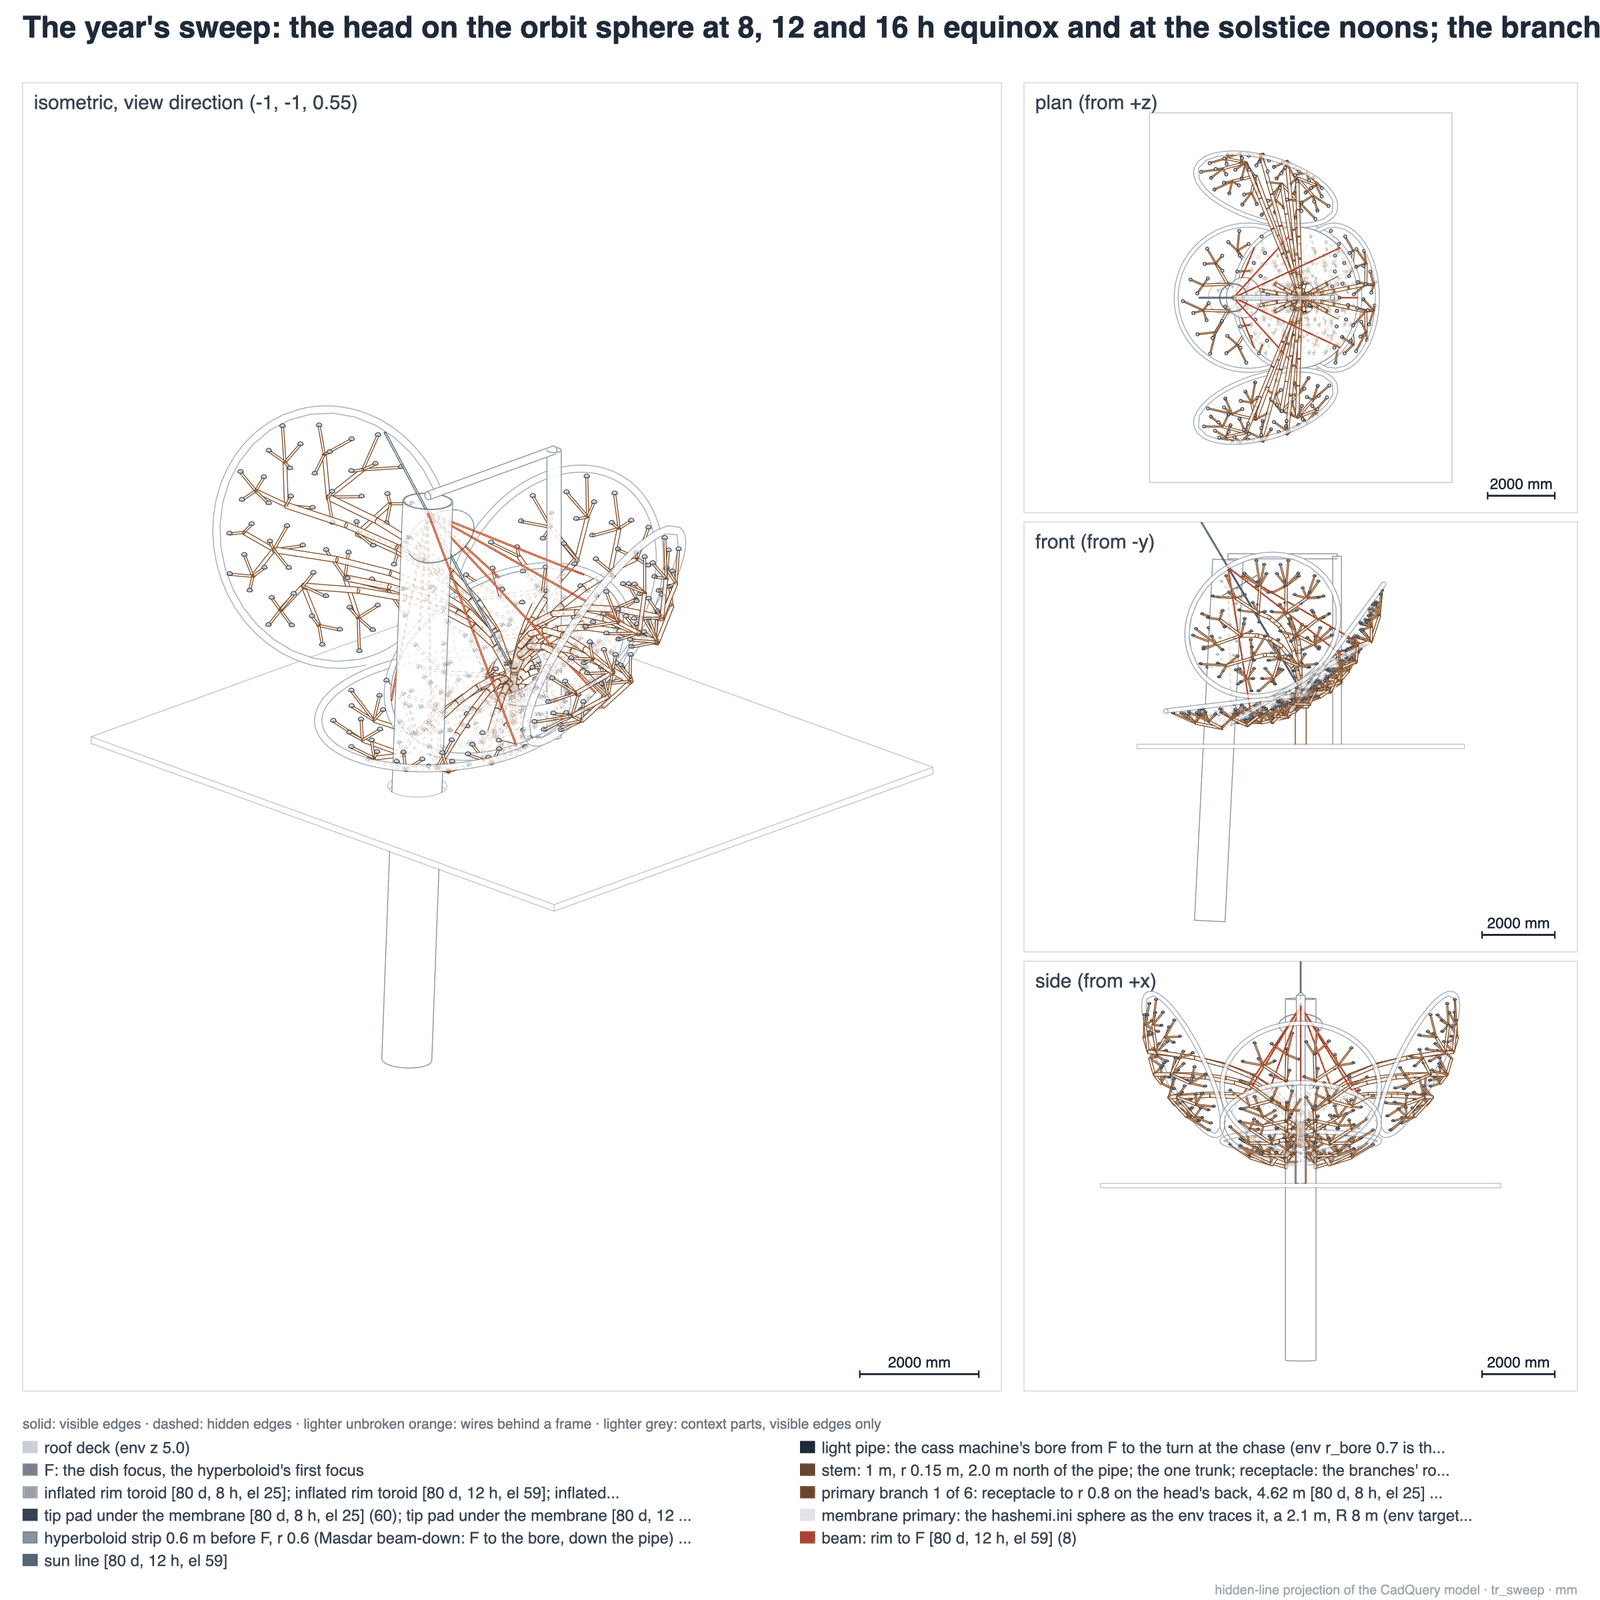
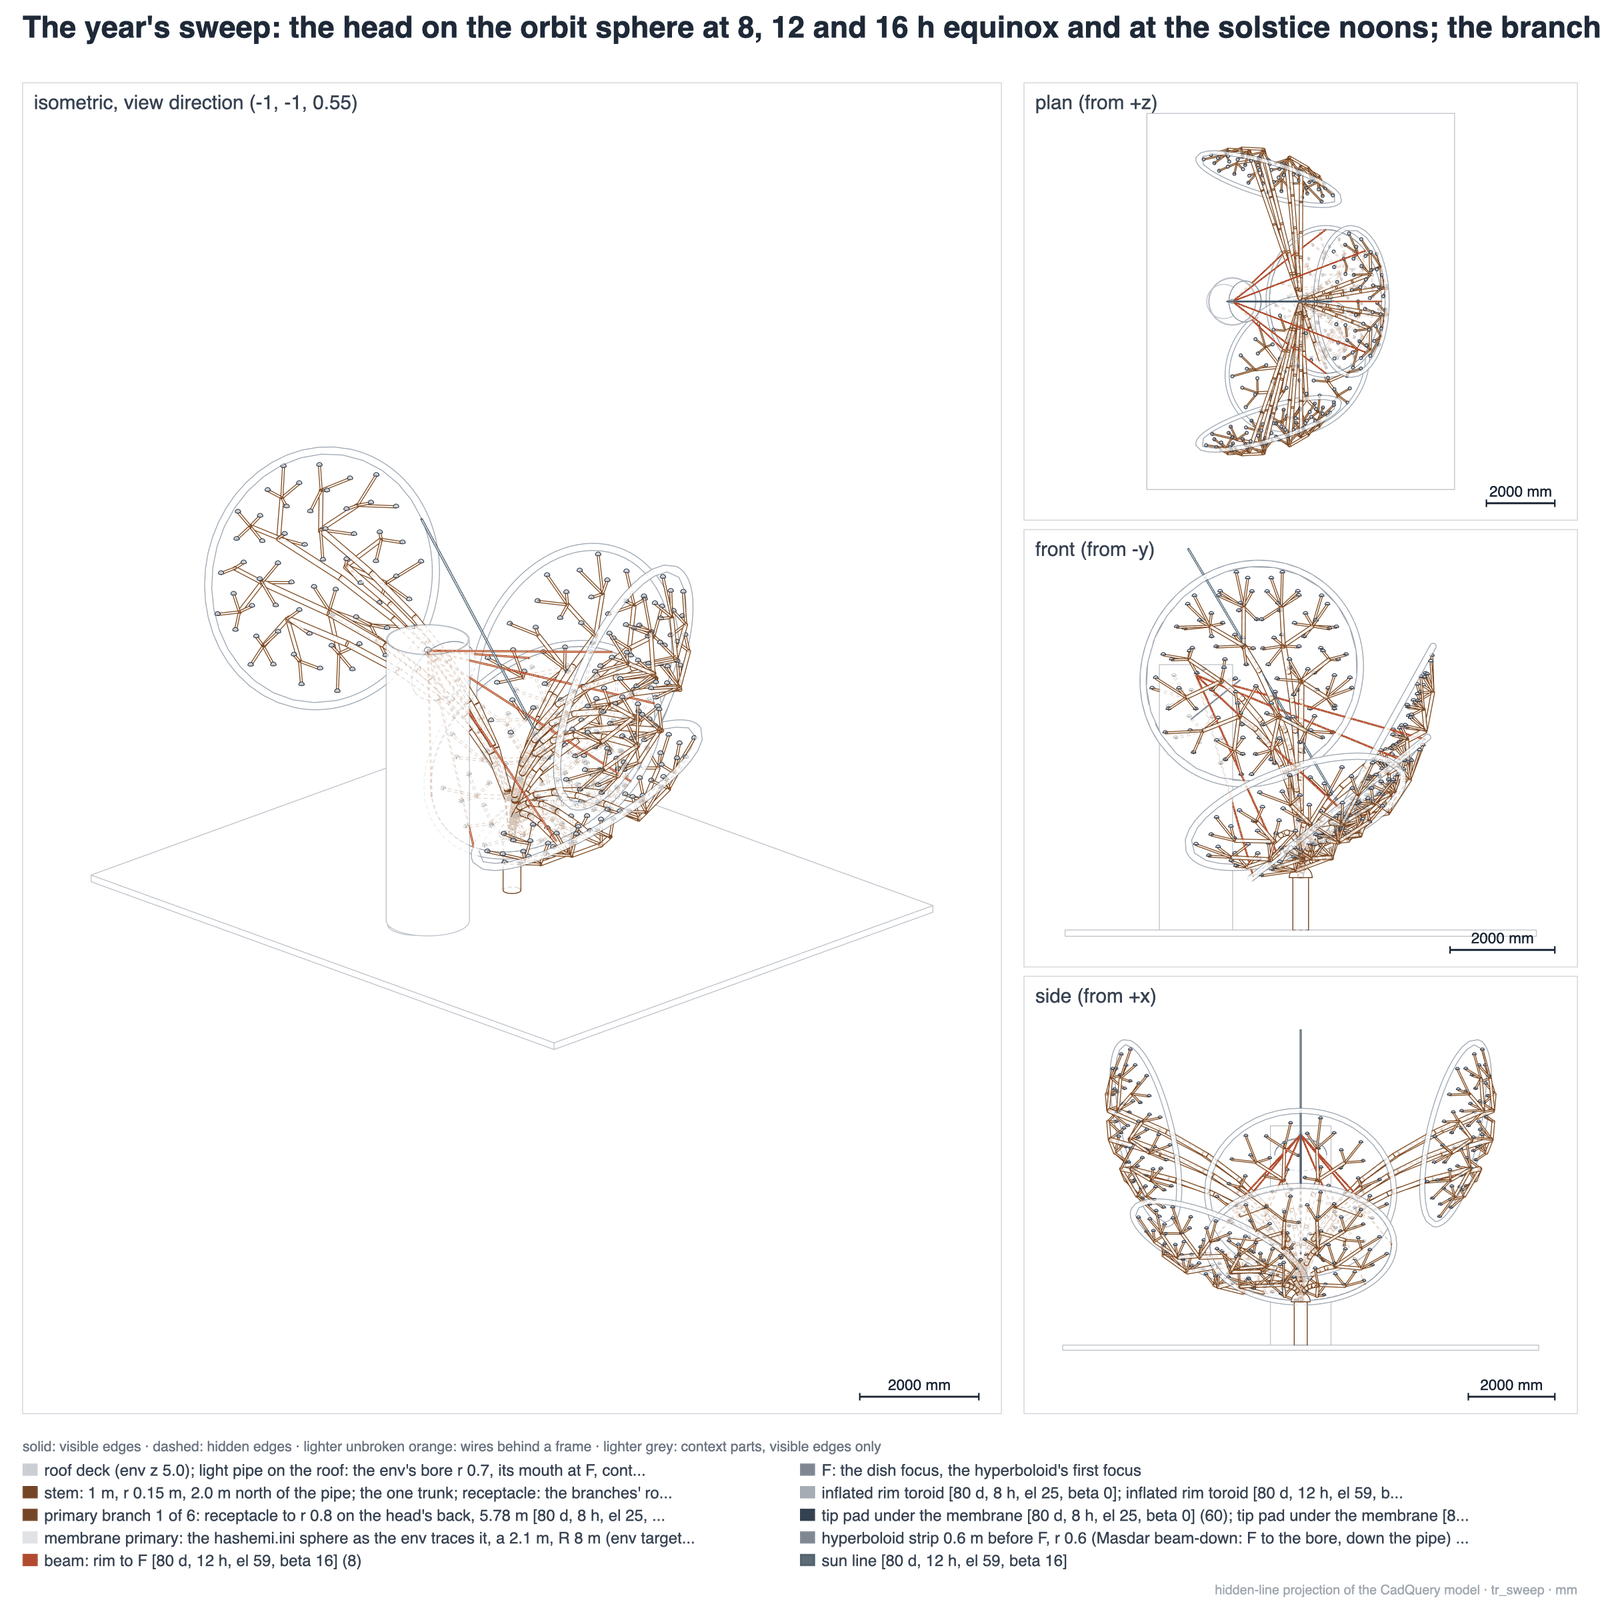
Sheets 52-57 redrawn: the stem on the deck, the pedicel lifting the head, the membrane without a hole, the pipe a plain pipe from the deck to F; summer drawn at 11 h, the highest sun the no-hole geometry serves

diff --git a/tutorials/design/compliant/stage3/tree/model.py b/tutorials/design/compliant/stage3/tree/model.py
@@ -42,8 +42,8 @@ def add_ground(sc):
     deck = cq.Workplane("XY").box(9.0 * M, 11.0 * M, 120).translate((2.0 * M, 0, Z_DECK * M - 60)).cut(cq.Workplane("XY").circle(0.5 * M).extrude(400).translate((-0.25 * M, 0, Z_DECK * M - 200)))
     sc.add(deck.val(), "roof deck (env z 5.0)", COL["ctx"], tol=3.0)
     # the light pipe: a vertical pipe on the roof, the env's r_bore 0.7, its mouth at F, going down through the roof to the oven; the beam-down never passes through the dish: the schedule keeps the head's rim 0.3 m clear of it (path.py)
-    turn = np.array([0.0, 0, Z_DECK - 4.86]) * M
-    sc.add(cyl(R_PIPE * M, turn, (F + [0, 0, 0.2]) * M).cut(cyl((R_PIPE - 0.02) * M, turn - [0, 0, 10], (F + [0, 0, 0.21]) * M)), "light pipe on the roof: the env's bore r 0.7, its mouth at F, down through the roof to the oven; separate of the flower", COL["pipe"], tol=3.0)
+    foot = np.array([0.0, 0, Z_DECK]) * M                                                # drawn from the deck up: below the roof it is the building's, not the flower's
+    sc.add(cyl(R_PIPE * M, foot, (F + [0, 0, 0.2]) * M).cut(cyl((R_PIPE - 0.02) * M, foot - [0, 0, 10], (F + [0, 0, 0.21]) * M)), "light pipe on the roof: the env's bore r 0.7, its mouth at F, continuing down through the roof to the oven; separate of the flower", COL["ctx"], tol=3.0)
     sc.add(cq.Solid.makeSphere(60, V(*(F * M))), "F: the dish focus, the hyperboloid's first focus", COL["mirror"], tol=2.0)
 def add_strip(sc, n, tag=""):
     c = (F - D_STRIP * n) * M
